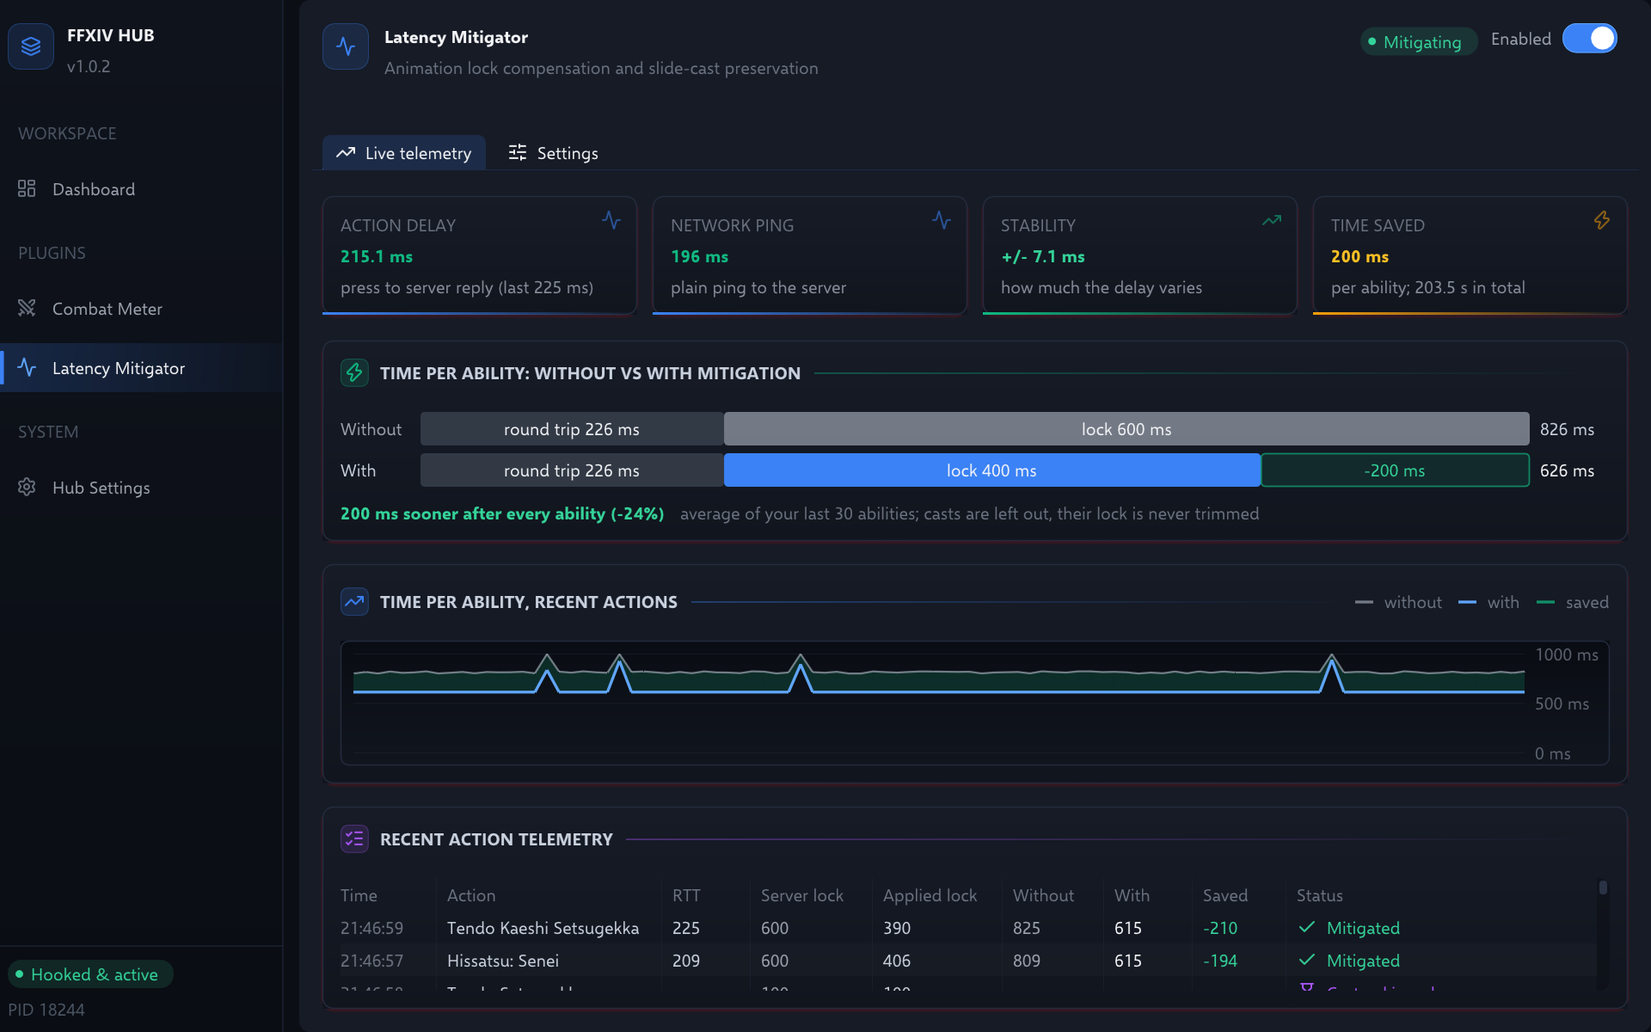
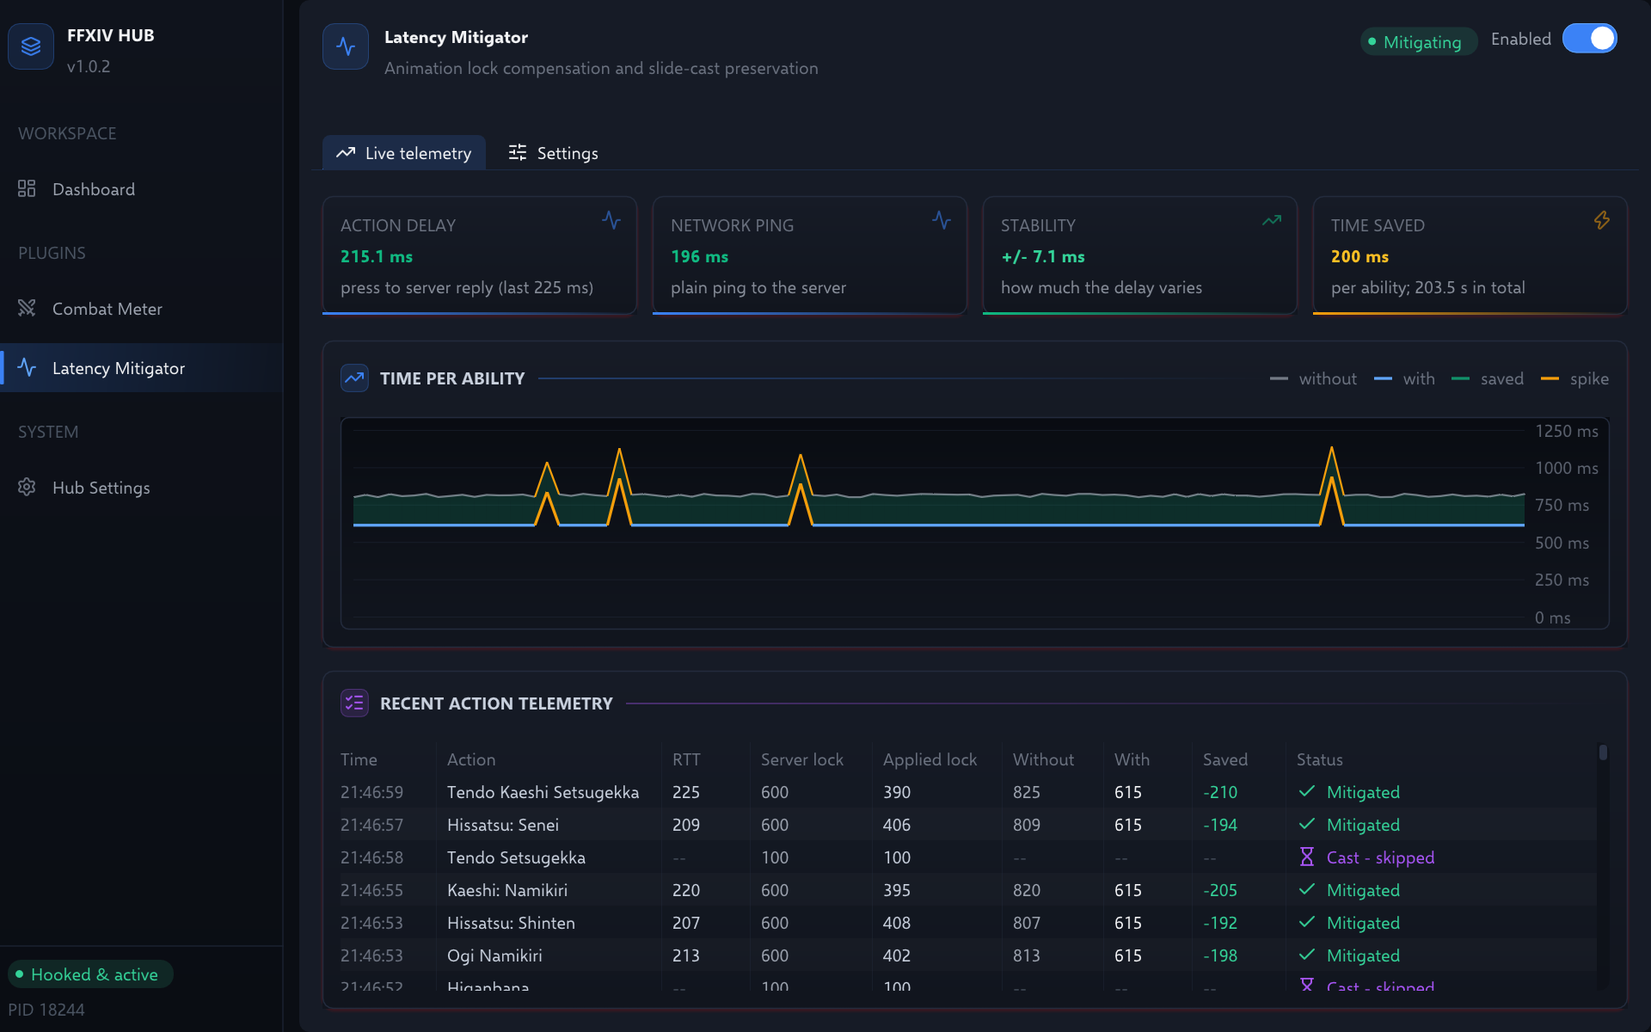
fix: drop the latency comparison card and show spikes on the chart
- Remove the without-vs-with card; the Time saved tile already gives the per-ability figure
- Scale the time per ability chart to its highest action, so spikes show at their real height
- Draw both lines in amber around a filtered spike, with a spike key in the legend
- Give the chart the card's space back and shorten its title to TIME PER ABILITY
- Trim ImpactSummary to what the tile reads
- Update the READMEs, the plugin AGENTS.md rule and the latency view screenshot

diff --git a/src/app/src/ui/view_latency.cpp b/src/app/src/ui/view_latency.cpp
@@ -28,15 +28,6 @@ namespace {
 
 constexpr const char* MITI = plugins::LATENCY_MITIGATOR.config_section;
 
-/// What the write-back is doing, as the page header names it.
-enum class MitigationMode { Mitigating, DryRun, Off };
-
-MitigationMode mitigation_mode() {
-    if (cfg_get(MITI, "dry_run", false)) return MitigationMode::DryRun;
-    if (!cfg_get(MITI, "enabled", true)) return MitigationMode::Off;
-    return MitigationMode::Mitigating;
-}
-
 float lock_ceiling_ms() {
     return cfg_get(MITI, "max_animation_lock_ms",
                    static_cast<float>(mitigator::constants::DEFAULT_MAX_ANIMATION_LOCK_MS));
@@ -51,15 +42,14 @@ uint32_t ping_grade_color(double ping_ms) {
     return colors::Danger;
 }
 
-// Colours of the with/without comparison, shared by the card, the chart and the table.
-constexpr uint32_t kRttColor      = colors::with_alpha(colors::TextFaint, 0.55f);
-constexpr uint32_t kWithoutColor  = colors::with_alpha(colors::TextMuted, 0.70f);
-constexpr uint32_t kWithLockColor = colors::Accent;
-constexpr uint32_t kWithLineColor = colors::AccentHover;
-constexpr uint32_t kSavedColor    = colors::Success;
+// Colours of the time per ability chart and its legend.
+constexpr uint32_t kWithoutColor = colors::with_alpha(colors::TextMuted, 0.70f);
+constexpr uint32_t kSavedColor   = colors::Success;
+constexpr uint32_t kSpikeColor   = colors::Warning;
 
-uint32_t with_color(MitigationMode mode) {
-    return mode == MitigationMode::DryRun ? colors::Violet : kWithLockColor;
+/// The "with" line, violet in dry-run, where none of it was written.
+uint32_t with_line_color() {
+    return cfg_get(MITI, "dry_run", false) ? colors::Violet : colors::AccentHover;
 }
 
 /// Width legend_entry() takes, so the header slot fits the legend exactly.
@@ -83,106 +73,6 @@ void legend_entry(const char* label, uint32_t color) {
 }
 
 // ---------------------------------------------------------------------------
-// Without vs with card
-// ---------------------------------------------------------------------------
-
-/// A filled bar segment, with its label centred inside when it fits.
-void bar_segment(ImDrawList* dl, float x0, float x1, float y0, float y1, uint32_t fill,
-                 const char* label) {
-    if (x1 <= x0) return;
-    dl->AddRectFilled(ImVec2(x0, y0), ImVec2(x1, y1), fill, m(3.0f));
-    const ImVec2 size = ImGui::CalcTextSize(label);
-    if (size.x + m(8.0f) <= x1 - x0) {
-        dl->AddText(ImVec2((x0 + x1 - size.x) * 0.5f, (y0 + y1 - size.y) * 0.5f),
-                    colors::TextPrimary, label);
-    }
-}
-
-void render_impact_card(const ImpactSummary& s, MitigationMode mode) {
-    CardOptions opts{};
-    opts.auto_height = true;
-    begin_card("##ImpactCard", ImVec2(0.0f, 0.0f), opts);
-    section_header(ICON_BOLT, "TIME PER ABILITY: WITHOUT VS WITH MITIGATION", kSavedColor);
-
-    if (s.samples == 0) {
-        text_dim("Use an ability in game and the comparison fills in.");
-        end_card();
-        return;
-    }
-
-    const float label_w = ImGui::CalcTextSize("Without").x + m(14.0f);
-    const float total_w = ImGui::CalcTextSize("0000 ms").x + m(12.0f);
-    const float bar_h = ImGui::GetTextLineHeight() + m(10.0f);
-    const float row_gap = m(6.0f);
-    const ImVec2 origin = ImGui::GetCursorScreenPos();
-    const float bar_x0 = origin.x + label_w;
-    const float bar_w = std::max(ImGui::GetContentRegionAvail().x - label_w - total_w, m(120.0f));
-    const float scale = bar_w / std::max(s.avg_without_ms, 1.0f);
-    ImDrawList* dl = ImGui::GetWindowDrawList();
-
-    char rtt_label[48], lock_label[48], total[24];
-    std::snprintf(rtt_label, sizeof(rtt_label), "round trip %.0f ms", s.avg_rtt_ms);
-
-    // Without: the round trip, then the whole lock the server sent.
-    float y = origin.y;
-    const float text_dy = (bar_h - ImGui::GetTextLineHeight()) * 0.5f;
-    dl->AddText(ImVec2(origin.x, y + text_dy), colors::TextMuted, "Without");
-    const float rtt_x1 = bar_x0 + s.avg_rtt_ms * scale;
-    bar_segment(dl, bar_x0, rtt_x1, y, y + bar_h, kRttColor, rtt_label);
-    std::snprintf(lock_label, sizeof(lock_label), "lock %.0f ms", s.avg_server_lock_ms);
-    const float without_x1 = bar_x0 + s.avg_without_ms * scale;
-    bar_segment(dl, rtt_x1, without_x1, y, y + bar_h, kWithoutColor, lock_label);
-    std::snprintf(total, sizeof(total), "%.0f ms", s.avg_without_ms);
-    dl->AddText(ImVec2(without_x1 + m(8.0f), y + text_dy), colors::TextBody, total);
-
-    // With: the same round trip, then the lock actually written, then what was cut.
-    y += bar_h + row_gap;
-    dl->AddText(ImVec2(origin.x, y + text_dy), colors::TextBody, "With");
-    bar_segment(dl, bar_x0, rtt_x1, y, y + bar_h, kRttColor, rtt_label);
-    std::snprintf(lock_label, sizeof(lock_label), "lock %.0f ms", s.avg_applied_lock_ms);
-    const float with_x1 = bar_x0 + s.avg_with_ms * scale;
-    bar_segment(dl, rtt_x1, with_x1, y, y + bar_h, with_color(mode), lock_label);
-    if (without_x1 - with_x1 > m(2.0f)) {
-        dl->AddRectFilled(ImVec2(with_x1, y), ImVec2(without_x1, y + bar_h),
-                          colors::with_alpha(kSavedColor, 0.12f), m(3.0f));
-        dl->AddRect(ImVec2(with_x1, y), ImVec2(without_x1, y + bar_h),
-                    colors::with_alpha(kSavedColor, 0.65f), m(3.0f), 0, m(1.2f));
-        char saved[32];
-        std::snprintf(saved, sizeof(saved), "-%.0f ms", s.avg_saved_ms());
-        const ImVec2 size = ImGui::CalcTextSize(saved);
-        if (size.x + m(8.0f) <= without_x1 - with_x1) {
-            dl->AddText(ImVec2((with_x1 + without_x1 - size.x) * 0.5f, y + text_dy),
-                        colors::SuccessLight, saved);
-        }
-    }
-    std::snprintf(total, sizeof(total), "%.0f ms", s.avg_with_ms);
-    dl->AddText(ImVec2(without_x1 + m(8.0f), y + text_dy), colors::TextPrimary, total);
-
-    ImGui::Dummy(ImVec2(0.0f, bar_h * 2.0f + row_gap + m(4.0f)));
-
-    // The headline: one sentence that answers "what does it change for me".
-    const float saved_ms = s.avg_saved_ms();
-    const float percent = s.avg_without_ms > 0.0f ? 100.0f * saved_ms / s.avg_without_ms : 0.0f;
-    ImGui::PushFont(bold_font());
-    if (mode == MitigationMode::Off) {
-        text_colored_u32(colors::DangerLight,
-                         "Mitigation is off: new abilities wait the full time, like the Without bar.");
-    } else if (saved_ms < 1.0f) {
-        text_colored_u32(colors::TextMuted, "Nothing trimmed recently: your round trip is already near the target.");
-    } else if (mode == MitigationMode::DryRun) {
-        text_colored_u32(colors::Violet, "Would be %.0f ms sooner after every ability (-%.0f%%). Dry-run writes nothing.",
-                         saved_ms, percent);
-    } else {
-        text_colored_u32(colors::SuccessLight, "%.0f ms sooner after every ability (-%.0f%%)", saved_ms, percent);
-    }
-    ImGui::PopFont();
-    ImGui::SameLine(0.0f, m(12.0f));
-    text_dim("average of your last %zu abilities; casts are left out, their lock is never trimmed", s.samples);
-
-    end_card();
-}
-
-// ---------------------------------------------------------------------------
 // Time per ability chart
 // ---------------------------------------------------------------------------
 
@@ -192,7 +82,7 @@ struct ChartPoint {
     bool spike_filtered;
 };
 
-void render_weave_chart(const std::vector<ChartPoint>& points, MitigationMode mode, float height) {
+void render_weave_chart(const std::vector<ChartPoint>& points, uint32_t with_line, float height) {
     const ImVec2 canvas_size(ImGui::GetContentRegionAvail().x, height);
     const ImVec2 p_min = ImGui::GetCursorScreenPos();
     const ImVec2 p_max(p_min.x + canvas_size.x, p_min.y + canvas_size.y);
@@ -214,13 +104,10 @@ void render_weave_chart(const std::vector<ChartPoint>& points, MitigationMode mo
         return;
     }
 
-    // The axis starts at zero so the gap between the lines is to scale.
+    // The axis starts at zero so the gap between the lines is to scale, and reaches
+    // the highest action so every spike is drawn at its real height.
     float max_ms = 800.0f;
-    // Filtered spikes are left out of the scale: they run off the top rather than
-    // squash the two lines every ordinary action sits on.
-    for (const auto& p : points) {
-        if (!p.spike_filtered) max_ms = std::max(max_ms, p.timing.without_ms);
-    }
+    for (const auto& p : points) max_ms = std::max(max_ms, p.timing.without_ms);
     // The finest step whose labels still have room between them at this height.
     const float label_gap = ImGui::GetTextLineHeight() * 1.8f;
     const float plot_h = canvas_size.y - m(20.0f);
@@ -266,14 +153,19 @@ void render_weave_chart(const std::vector<ChartPoint>& points, MitigationMode mo
                           ImVec2(x0, y_for(points[i].timing.with_ms)),
                           colors::with_alpha(kSavedColor, 0.18f));
     }
-    const uint32_t with_line = mode == MitigationMode::DryRun ? colors::Violet : kWithLineColor;
+    // Both sides of a filtered spike are amber on both lines, so it reads as one peak.
+    const auto segment_color = [&](size_t i, uint32_t color) {
+        return points[i].spike_filtered || points[i + 1].spike_filtered ? kSpikeColor : color;
+    };
     for (size_t i = 0; i + 1 < points.size(); ++i) {
         dl->AddLine(ImVec2(x_for(i), y_for(points[i].timing.without_ms)),
-                    ImVec2(x_for(i + 1), y_for(points[i + 1].timing.without_ms)), kWithoutColor, m(1.5f));
+                    ImVec2(x_for(i + 1), y_for(points[i + 1].timing.without_ms)),
+                    segment_color(i, kWithoutColor), m(1.5f));
     }
     for (size_t i = 0; i + 1 < points.size(); ++i) {
         dl->AddLine(ImVec2(x_for(i), y_for(points[i].timing.with_ms)),
-                    ImVec2(x_for(i + 1), y_for(points[i + 1].timing.with_ms)), with_line, m(2.2f));
+                    ImVec2(x_for(i + 1), y_for(points[i + 1].timing.with_ms)),
+                    segment_color(i, with_line), m(2.2f));
     }
     dl->PopClipRect();
 
@@ -302,7 +194,7 @@ void render_weave_chart(const std::vector<ChartPoint>& points, MitigationMode mo
             text_colored_u32(with_line, "With: %.0f ms", p.timing.with_ms);
             text_colored_u32(colors::SuccessLight, "Saved: %.0f ms", p.timing.saved_ms());
             if (p.spike_filtered) {
-                text_colored_u32(colors::Warning, ICON_WARNING "  Spike: trimmed by the usual round trip");
+                text_colored_u32(kSpikeColor, ICON_WARNING "  Spike: trimmed by the usual round trip");
             }
             ImGui::EndTooltip();
         }
@@ -557,29 +449,27 @@ void render_action_feed(const std::vector<ipc::MitigatorTelemetryPayload>& telem
 
 void render_live_tab(AppState& app_state, const AppState::MitigatorMetrics& metrics,
                      const std::vector<ipc::MitigatorTelemetryPayload>& telemetry) {
-    const MitigationMode mode = mitigation_mode();
     const float ceiling_ms = lock_ceiling_ms();
-    const ImpactSummary impact = summarize_impact(telemetry, ceiling_ms);
-
-    render_metric_tiles(app_state, metrics, impact);
+    render_metric_tiles(app_state, metrics, summarize_impact(telemetry, ceiling_ms));
     ImGui::Dummy(ImVec2(0.0f, m(4.0f)));
-    render_impact_card(impact, mode);
-    ImGui::Dummy(ImVec2(0.0f, m(2.0f)));
 
     // Chart takes a fixed share of what is left; the feed takes the rest, so both
     // reach the bottom of the window instead of stopping at a magic pixel height.
     const float remaining = fill_h(0.0f);
-    const float graph_card_h = std::max(remaining * 0.38f, m(170.0f));
+    const float graph_card_h = std::max(remaining * 0.46f, m(170.0f));
 
     begin_card("##RttGraphCard", ImVec2(0.0f, graph_card_h));
+    const uint32_t with_line = with_line_color();
     const float legend_w = legend_entry_width("without") + legend_entry_width("with") +
-                           legend_entry_width("saved") + m(12.0f) * 2.0f;
-    begin_section_header(ICON_TRENDING, "TIME PER ABILITY, RECENT ACTIONS", legend_w);
+                           legend_entry_width("saved") + legend_entry_width("spike") + m(12.0f) * 3.0f;
+    begin_section_header(ICON_TRENDING, "TIME PER ABILITY", legend_w);
     legend_entry("without", kWithoutColor);
     ImGui::SameLine(0.0f, m(12.0f));
-    legend_entry("with", mode == MitigationMode::DryRun ? colors::Violet : kWithLineColor);
+    legend_entry("with", with_line);
     ImGui::SameLine(0.0f, m(12.0f));
     legend_entry("saved", colors::with_alpha(kSavedColor, 0.75f));
+    ImGui::SameLine(0.0f, m(12.0f));
+    legend_entry("spike", kSpikeColor);
     end_section_header();
 
     std::vector<ChartPoint> points;
@@ -589,7 +479,7 @@ void render_live_tab(AppState& app_state, const AppState::MitigatorMetrics& metr
             points.push_back({ *t, s.action_id, s.spike_filtered != 0 });
         }
     }
-    render_weave_chart(points, mode, fill_h(0.0f));
+    render_weave_chart(points, with_line, fill_h(0.0f));
     end_card();
 
     ImGui::Dummy(ImVec2(0.0f, m(2.0f)));

diff --git a/src/app/include/app/mitigator_impact.hpp b/src/app/include/app/mitigator_impact.hpp
@@ -36,18 +36,15 @@ struct WeaveTiming {
     return t;
 }
 
-/// Averages over the most recent comparable actions, for the "without vs with" card.
+/// Averages over the most recent comparable actions, for the Time saved tile.
 struct ImpactSummary {
     std::size_t samples{0};
-    float avg_rtt_ms{0.0f};
-    float avg_server_lock_ms{0.0f};
-    float avg_applied_lock_ms{0.0f};
     float avg_without_ms{0.0f};
     float avg_with_ms{0.0f};
     [[nodiscard]] float avg_saved_ms() const { return avg_without_ms - avg_with_ms; }
 };
 
-/// Actions the card averages over: recent enough to follow a change of route or
+/// Actions the tile averages over: recent enough to follow a change of route or
 /// setting within a pull, long enough that one spike does not swing it.
 inline constexpr std::size_t kImpactWindow = 30;
 
@@ -57,22 +54,19 @@ inline constexpr std::size_t kImpactWindow = 30;
                                                     float ceiling_ms,
                                                     std::size_t window = kImpactWindow) {
     ImpactSummary out{};
-    double rtt = 0.0, server_lock = 0.0, applied_lock = 0.0;
+    double without_sum = 0.0, with_sum = 0.0;
     for (auto it = recent.rbegin(); it != recent.rend() && out.samples < window; ++it) {
-        if (!weave_timing(*it, ceiling_ms)) continue;
-        rtt += it->measured_rtt_ms;
-        server_lock += it->original_lock_ms;
-        applied_lock += it->adjusted_lock_ms;
+        const auto t = weave_timing(*it, ceiling_ms);
+        if (!t) continue;
+        without_sum += t->without_ms;
+        with_sum += t->with_ms;
         ++out.samples;
     }
     if (out.samples == 0) return out;
 
     const double n = static_cast<double>(out.samples);
-    out.avg_rtt_ms = static_cast<float>(rtt / n);
-    out.avg_server_lock_ms = static_cast<float>(server_lock / n);
-    out.avg_applied_lock_ms = static_cast<float>(applied_lock / n);
-    out.avg_without_ms = out.avg_rtt_ms + out.avg_server_lock_ms;
-    out.avg_with_ms = out.avg_rtt_ms + out.avg_applied_lock_ms;
+    out.avg_without_ms = static_cast<float>(without_sum / n);
+    out.avg_with_ms = static_cast<float>(with_sum / n);
     return out;
 }
 

diff --git a/tests/test_mitigator_impact.cpp b/tests/test_mitigator_impact.cpp
@@ -61,9 +61,6 @@ TEST_CASE(MitigatorImpact, SummaryAveragesOnlyComparableActions) {
     };
     const ImpactSummary s = summarize_impact(recent, kCeiling);
     TEST_ASSERT_EQ(s.samples, 2u);
-    TEST_ASSERT_NEAR(s.avg_rtt_ms, 210.0f, 0.01);
-    TEST_ASSERT_NEAR(s.avg_server_lock_ms, 600.0f, 0.01);
-    TEST_ASSERT_NEAR(s.avg_applied_lock_ms, 405.0f, 0.01);
     TEST_ASSERT_NEAR(s.avg_without_ms, 810.0f, 0.01);
     TEST_ASSERT_NEAR(s.avg_with_ms, 615.0f, 0.01);
     TEST_ASSERT_NEAR(s.avg_saved_ms(), 195.0f, 0.01);
@@ -75,7 +72,7 @@ TEST_CASE(MitigatorImpact, SummaryKeepsOnlyTheNewestWindow) {
     for (int i = 0; i < 3; ++i) recent.push_back(sample(200.0f, 600.0f, 415.0f)); // newest
     const ImpactSummary s = summarize_impact(recent, kCeiling, 3);
     TEST_ASSERT_EQ(s.samples, 3u);
-    TEST_ASSERT_NEAR(s.avg_rtt_ms, 200.0f, 0.01);
+    TEST_ASSERT_NEAR(s.avg_without_ms, 800.0f, 0.01);
     TEST_ASSERT_NEAR(s.avg_saved_ms(), 185.0f, 0.01);
 }
 

diff --git a/plugins/latency_mitigator/README.md b/plugins/latency_mitigator/README.md
@@ -176,20 +176,15 @@ with mitigation:     round trip + applied lock   213 + 402 = 615 ms
   | Action delay | The latest smoothed action round trip, with the last raw sample below it |
   | Network ping | The ICMP ping to the game server, or to your data center's lobby server. *not measured yet* until it has an answer |
   | Stability | The round-trip jitter. Its tooltip also counts the spikes filtered and the trims that stopped at the floor |
-  | Time saved | Time removed per ability, averaged like the card below, with the session total. Dry-run and switched-off actions add nothing to the total. |
+  | Time saved | Time removed per ability, averaged over your last 30 abilities, with the session total. Casts are left out of the average, because their lock is never trimmed. Dry-run and switched-off actions add nothing to the total. |
 
   The round-trip tiles use the same colour bands as the HUD.
-- **Without vs with mitigation.** Two bars on one scale, each made of the round trip and
-  then the lock. *Without* uses the lock the server sent; *With* uses the lock written,
-  and outlines the part that was removed. The headline gives the difference per ability.
-  The averages cover your last 30 abilities. Casts are left out, because their lock is
-  never trimmed. In dry-run the bar turns violet and the headline reads *Would be*; with
-  *Enable animation lock mitigation* off, the headline says so.
-- **Time per ability, recent actions.** The same two figures for every ability: a grey
-  *without* line, a blue *with* line, and the time saved filled between them. With
-  mitigation off the two lines meet and the fill disappears. The axis starts at zero, so
-  the gap is to scale; a filtered spike runs off the top instead of setting the scale.
-  Hover it for any ability's name, round trip, without, with and saved.
+- **Time per ability.** The same two figures for every recent ability: a grey *without*
+  line, a blue *with* line (violet in dry-run), and the time saved filled between them.
+  With mitigation off the two lines meet and the fill disappears. The axis starts at
+  zero, so the gap is to scale, and reaches the highest ability, so a spike shows at its
+  real height. Where the spike filter rejected a round trip, both lines are drawn in
+  amber. Hover it for any ability's name, round trip, without, with and saved.
 - **Recent action telemetry.** Every ability the client sends, newest first, with the
   columns Time, Action, RTT, Server lock, Applied lock, Without, With, Saved and Status.
   Hover a header for what it means, and an action for its id and sequence number. Casts,
@@ -293,11 +288,11 @@ action feed as *Dry-run (not applied)*, but nothing is written to game memory.
 
 <br>
 
-Look at the *Without vs with mitigation* card on the Live telemetry tab. After every
-ability you wait your round trip plus the lock. Mitigation leaves the round trip alone and
-shortens the lock, so with a 213 ms round trip and a 600 ms lock you wait about 615 ms
-instead of 813 ms. That is roughly what a player sitting next to the datacenter waits.
-The chart below the card shows the same comparison ability by ability.
+Look at the *Time saved* tile on the Live telemetry tab. After every ability you wait
+your round trip plus the lock. Mitigation leaves the round trip alone and shortens the
+lock, so with a 213 ms round trip and a 600 ms lock you wait about 615 ms instead of
+813 ms. That is roughly what a player sitting next to the datacenter waits. The *Time
+per ability* chart below the tiles shows the same comparison ability by ability.
 
 </details>
 

diff --git a/plugins/latency_mitigator/AGENTS.md b/plugins/latency_mitigator/AGENTS.md
@@ -24,7 +24,7 @@ about the game.
 - **Config Is Sanitised In One Place**: `AnimationLockMitigator::set_config` (and every setter through it) clamps target ping and safety margin to $\ge 0$, `spike_multiplier` to $\ge 1$, the window to 1–64 and `max` to $\ge$ `min`. A negative ping or margin would cut the lock by more than the measured RTT.
 - **Its Keys Live In `latency_settings.cpp`**: the table there is the only list of the `latency_mitigator` section's keys and their defaults (`LatencySettings{}`). `rtt_sample_window` below 1 keeps the current window before `set_config` clamps the rest. See the root AGENTS.md, *Every Plugin Key Has A Default On File*.
 - **Cold-Start Guard**: While fewer than 5 samples exist there is no median to filter against, so samples are capped instead: the first at 200ms (`COLD_START_FIRST_SAMPLE_CAP_MS`), the rest at `baseline + max(50ms, 0.5 × baseline)` (the same two tolerance constants), flagged `cold_start_guard`. The median filter takes over after that. Queueing cannot inflate these samples, so do not attribute an inflated opener to it.
-- **The Desktop's Without/With Figures Come From One Helper**: The desktop's figures for time per ability with and without mitigation (the card, the chart and the table's Without and With columns) are computed only by `weave_timing()` and `summarize_impact()` in `src/app/include/app/mitigator_impact.hpp`. The formula is `measured_rtt + original_lock` without and `measured_rtt + adjusted_lock` with, because the server's lock lands only when its reply does. Casts, replies with no round trip, and locks above the ceiling are left out: casts are never trimmed by design and would pull "with" towards "without". The helper reads telemetry only; it never feeds back into the trim.
+- **The Desktop's Without/With Figures Come From One Helper**: The desktop's figures for time per ability with and without mitigation (the Time saved tile, the chart and the table's Without and With columns) are computed only by `weave_timing()` and `summarize_impact()` in `src/app/include/app/mitigator_impact.hpp`. The formula is `measured_rtt + original_lock` without and `measured_rtt + adjusted_lock` with, because the server's lock lands only when its reply does. Casts, replies with no round trip, and locks above the ceiling are left out: casts are never trimmed by design and would pull "with" towards "without". The helper reads telemetry only; it never feeds back into the trim.
 
 ## How the client dispatches an action
 

diff --git a/README.md b/README.md
@@ -160,7 +160,7 @@ always be found and dragged back. Each overlay can:
 |---|---|
 | Dashboard | Whether the game was found and the payload hooked, network ping, IPC traffic, and a card per plugin with its master switch |
 | Combat Meter | Damage, Healing, Damage Taken, Deaths, Buffs & Debuffs, Casts, and Timeline for the live pull and every archived one, plus Settings |
-| Latency Mitigator | Live latency stats, time-per-ability comparison and recent actions feed, plus Settings |
+| Latency Mitigator | Live latency stats, a time-per-ability chart with spikes highlighted, and a feed of every action, plus Settings |
 | Hub Settings | Start with Windows, close to tray, notifications, the config file, reset, unload, and the diagnostic log |
 
 **Tray icon.** Click it to open the window, hover over it for the connection status (the
